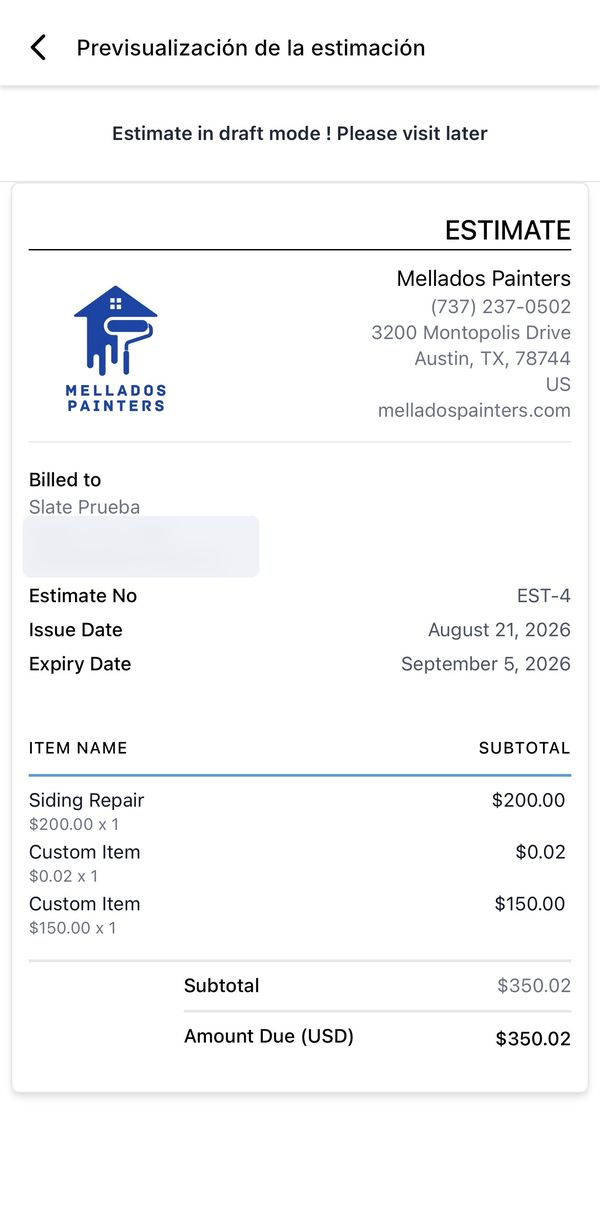
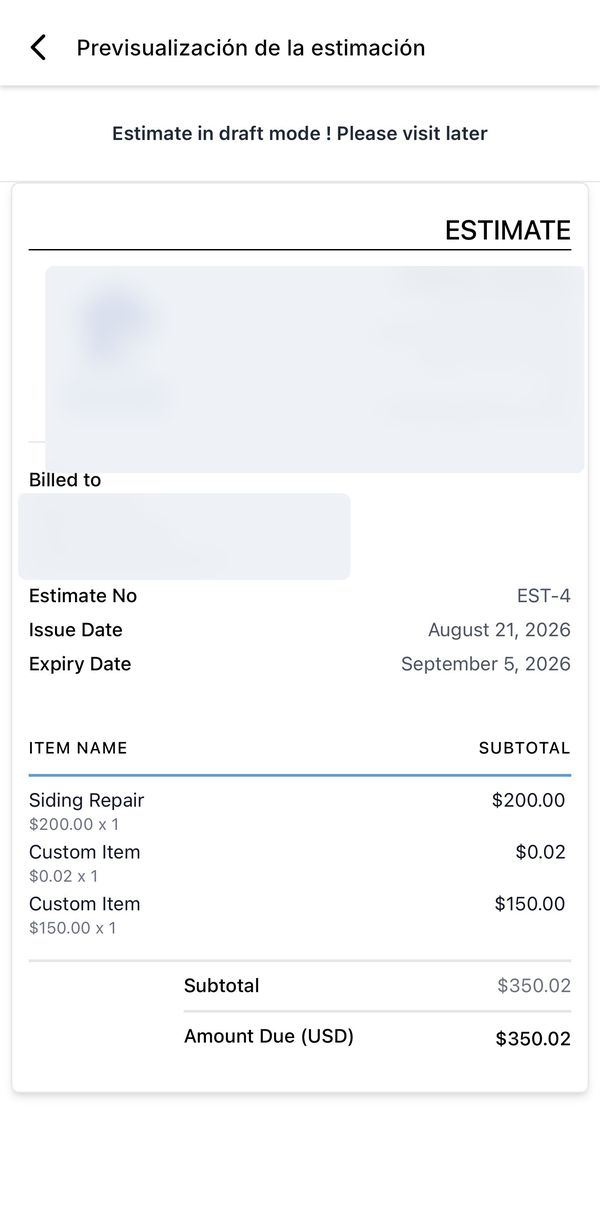
Presupuestos: la página de facturas pasa a presupuestos (solo presupuestos, sin factura, POS no se usa, los dos interruptores apagados), captura del catálogo con productos, bloque del negocio difuminado en la previsualización, menú e inicio y FAQ actualizados, redirección /facturas, bloque corto en 
Claude-Session: https://claude.ai/code/session_014USD9SwovftM7d8EjeFDVE

diff --git a/presupuestos.html b/presupuestos.html
@@ -4,7 +4,7 @@
   <meta charset="UTF-8">
   <meta name="viewport" content="width=device-width, initial-scale=1.0">
   <link rel="icon" type="image/png" href="/favicon.png">
-  <title>Facturas - Slate Systems Ayuda</title>
+  <title>Presupuestos - Slate Systems Ayuda</title>
   <link rel="preconnect" href="https://fonts.googleapis.com">
   <link rel="preconnect" href="https://fonts.gstatic.com" crossorigin>
   <link href="https://fonts.googleapis.com/css2?family=Inter:wght@400;500;600;700&display=swap" rel="stylesheet">
@@ -52,7 +52,7 @@
         <li><a href="google">Google</a></li>
         <li><a href="mis-enlaces">Mis Enlaces</a></li>
         <li><a href="tu-app">Tu App</a></li>
-        <li><a href="facturas" class="active">Facturas</a></li>
+        <li><a href="presupuestos" class="active">Presupuestos</a></li>
         <li><a href="clientes">Clientes</a></li>
         <li><a href="tu-sitio-web">Tu Sitio Web</a></li>
         <li><a href="referidos">Referidos</a></li>
@@ -65,8 +65,8 @@
 
   <section class="page-header">
     <div class="container">
-      <h1>Facturas</h1>
-      <p>Haz un presupuesto desde tu app y mándalo por texto o por correo. Lleva tu logo, tu nombre, tu teléfono y tu dirección. Cuando el cliente acepta, sale la factura. Incluido en tu plan, sin costo extra.</p>
+      <h1>Presupuestos</h1>
+      <p>Haz un presupuesto desde tu app y mándalo por texto o por correo. Lleva tu logo, tu nombre, tu teléfono y tu dirección. El cliente lo abre, lo ve y lo acepta. Incluido en tu plan, sin costo extra.</p>
     </div>
   </section>
 
@@ -79,10 +79,10 @@
         <div class="three-lines">
           <div class="line"><div class="num">1</div><p><strong>Tú haces el presupuesto en tu app.</strong> Unos 2 minutos: eliges al cliente, escribes lo que cobras, lo envías.</p></div>
           <div class="line"><div class="num">2</div><p><strong>El cliente recibe un texto o un correo con un enlace.</strong> Lo abre, lo ve, lo acepta y lo puede descargar. No necesita ninguna app.</p></div>
-          <div class="line"><div class="num">3</div><p><strong>Cuando dice que sí, sale la factura.</strong> Sola, si encendiste el interruptor de facturas. O la mandas tú desde POS. Te paga como siempre: efectivo, cheque, Zelle, transferencia.</p></div>
+          <div class="line"><div class="num">3</div><p><strong>Cuando acepta, te avisa el sistema.</strong> Haces el trabajo y cobras como siempre: efectivo, cheque, Zelle, transferencia.</p></div>
         </div>
         <div class="benefit-box">
-          <p><strong>Bueno saberlo:</strong> esto no cobra con tarjeta. No cambia nada en cómo te pagan. Y no hay impuestos por defecto: el total que escribes es el total. Si algún día necesitas una línea de impuesto, escríbenos.</p>
+          <p><strong>Bueno saberlo:</strong> esto no cobra con tarjeta. No cambia nada en cómo te pagan. Solo hace que tu presupuesto se vea profesional y llegue en segundos.</p>
         </div>
       </div>
 
@@ -94,9 +94,9 @@
           <div class="txt">
             <p>Abre tu app y toca <strong>Aplicaciones</strong> (abajo a la derecha). En el grupo <strong>Ventas &amp; Operaciones</strong> hay tres botones:</p>
             <ul class="icon-list">
-              <li><strong>Estimaciones:</strong> aquí haces y envías tus presupuestos. De aquí salen tus facturas.</li>
+              <li><strong>Estimaciones:</strong> aquí haces y envías tus presupuestos.</li>
               <li><strong>Productos:</strong> tu lista de servicios. Ya te cargamos los principales. Puedes cambiarlos o agregar más.</li>
-              <li><strong>POS:</strong> sirve para mandar una factura directa, sin presupuesto. Las opciones de tarjeta no funcionan (no hay procesador de pagos): ignóralas.</li>
+              <li><strong>POS:</strong> no lo uses (no cobra nada, no hay procesador).</li>
             </ul>
           </div>
         </div>
@@ -168,8 +168,8 @@
             <p class="shot-cap"><strong>Paso 2, pestaña Teclado:</strong> escribe el monto con el teclado. Toca <strong>Añadir información del elemento</strong> para ponerle nombre a esa línea. Con <strong>+</strong> agregas otra línea.</p>
           </div>
           <div>
-            <img src="assets/app/facturas-08-presupuesto-2-catalogo.jpg?v=1" alt="Paso 2 del presupuesto, pestaña Catálogo, con buscar, añadir elemento y crear artículo" class="app-shot">
-            <p class="shot-cap"><strong>Paso 2, pestaña Catálogo:</strong> busca uno de tus productos y tócalo. ¿No existe? <strong>Crear artículo</strong> ahí mismo.</p>
+            <img src="assets/app/facturas-08-presupuesto-2-catalogo.jpg?v=1" alt="Paso 2 del presupuesto, pestaña Catálogo, con la lista de productos para elegir" class="app-shot">
+            <p class="shot-cap"><strong>Paso 2, pestaña Catálogo:</strong> tus productos en lista. Toca los que van en este presupuesto, varios si quieres: el botón los cuenta ("Siguiente (3 elementos)"). Con los iconos de la derecha cambias entre lista y cuadrícula. ¿No existe? <strong>Crear artículo</strong> ahí mismo.</p>
           </div>
         </div>
         <div class="shot-pair">
@@ -179,7 +179,7 @@
           </div>
           <div>
             <img src="assets/app/facturas-11-presupuesto-3-notas.jpg?v=1" alt="Paso 3 del presupuesto: condiciones y notas, y adjuntos" class="app-shot">
-            <p class="shot-cap"><strong>Paso 3:</strong> notas para el cliente (qué incluye, cuándo empiezas). Puedes adjuntar fotos o PDF. Todo opcional. Toca <strong>Revisar</strong>.</p>
+            <p class="shot-cap"><strong>Paso 3:</strong> notas para el cliente (qué incluye, cuándo empiezas). Puedes adjuntar fotos o PDF. Todo opcional. Si el trabajo lleva impuesto, escribe en las notas: "Precios sin impuestos; se agregan al cobrar". Toca <strong>Revisar</strong>.</p>
           </div>
         </div>
         <div class="shot-pair">
@@ -189,7 +189,7 @@
           </div>
           <div>
             <img src="assets/app/facturas-14-presupuesto-4-detalle.jpg?v=1" alt="Paso 4 del presupuesto: subtotal, importe debido y configuración del pago" class="app-shot">
-            <p class="shot-cap">Más abajo está <strong>Configuración del pago</strong>. Deja apagado <strong>Habilitar el pago directo</strong> (no cobras con tarjeta). Enciende <strong>Habilitar el envío de facturas</strong> si quieres que la factura le llegue sola cuando acepte. Si lo dejas apagado, el presupuesto se queda como cotización y la factura la mandas tú (abajo te decimos cómo).</p>
+            <p class="shot-cap">Más abajo está <strong>Configuración del pago</strong>. Deja los dos interruptores apagados: <strong>Habilitar el pago directo</strong> y <strong>Habilitar el envío de facturas</strong>. Tú no cobras con tarjeta.</p>
           </div>
         </div>
         <div class="shot-pair">
@@ -211,26 +211,10 @@
       <div class="content-section" id="acepta">
         <h2>Cuando el cliente acepta</h2>
         <ol class="steps">
-          <li>El cliente abre el enlace, ve el presupuesto y toca <strong>Aceptar</strong>. Puede descargarlo como archivo. En tu lista, el presupuesto cambia a aceptado.</li>
-          <li>Si encendiste <strong>Habilitar el envío de facturas</strong>, la factura le llega sola por el mismo camino. Si no, el presupuesto queda aceptado y la factura la mandas tú (ver abajo).</li>
-          <li>Te paga como siempre: efectivo, cheque, Zelle, transferencia. Nada cambia ahí.</li>
-          <li>Cuando te pague, cuéntanos por texto o márcala como pagada desde la computadora. Así tu lista queda limpia.</li>
+          <li>El cliente abre el enlace, ve el presupuesto y toca <strong>Aceptar</strong>. Puede descargarlo como archivo.</li>
+          <li>Te avisa el sistema, y en tu lista el presupuesto cambia a aceptado.</li>
+          <li>Haces el trabajo y cobras como siempre: efectivo, cheque, Zelle, transferencia. Nada cambia ahí.</li>
         </ol>
-      </div>
-
-      <!-- Factura directa -->
-      <div class="content-section" id="factura-directa">
-        <h2>Factura directa, sin presupuesto</h2>
-        <p>Para un trabajo que ya acordaron de palabra, o para mandar la factura después de un presupuesto aceptado:</p>
-        <ol class="steps">
-          <li>Toca <strong>Aplicaciones</strong> y luego <strong>POS</strong>.</li>
-          <li>Toca <strong>Nuevo pago</strong>.</li>
-          <li>Escribe el monto, o elige tus artículos.</li>
-          <li>Envíala por <strong>texto</strong> o por <strong>correo</strong>. El cliente ve la factura con tu logo y el total. No hay botón de tarjeta.</li>
-        </ol>
-        <div class="ignore-box">
-          <p><strong>Ojo con POS:</strong> las opciones de cobrar con tarjeta no funcionan (no hay procesador de pagos). Ignóralas. Solo usa "Nuevo pago" para mandar la factura.</p>
-        </div>
       </div>
 
       <!-- Consejos -->
@@ -251,11 +235,7 @@
         <div class="faq-list">
           <div class="faq-card open">
             <div class="faq-q-rich">¿Para qué sirve el botón POS?</div>
-            <div class="faq-a-rich"><p>Sí, para una cosa: mandar una factura directa (POS, luego <strong>Nuevo pago</strong>). Lo que no funciona en POS son las opciones de cobrar con tarjeta, porque no hay procesador de pagos. Ignóralas. Tu camino normal sigue siendo <strong>Estimaciones</strong>.</p></div>
-          </div>
-          <div class="faq-card">
-            <div class="faq-q-rich">¿Y los impuestos?</div>
-            <div class="faq-a-rich"><p>Por defecto no hay línea de impuesto: el total que escribes es el total. Si en tu estado o en tu tipo de trabajo necesitas cobrar impuesto, escríbenos y te dejamos la tasa lista para elegirla en cada línea.</p></div>
+            <div class="faq-a-rich"><p>No lo uses. No cobra nada, porque no hay procesador de pagos. Tus dos botones son <strong>Estimaciones</strong> y <strong>Productos</strong>.</p></div>
           </div>
           <div class="faq-card">
             <div class="faq-q-rich">¿Puedo cambiar o borrar un producto?</div>
@@ -271,7 +251,7 @@
           </div>
           <div class="faq-card">
             <div class="faq-q-rich">Lo mandé al cliente equivocado. ¿Y ahora?</div>
-            <div class="faq-a-rich"><p>Escríbenos y lo anulamos contigo. Luego haces uno nuevo para el cliente correcto en un minuto.</p></div>
+            <div class="faq-a-rich"><p>Escríbenos y lo cancelamos contigo. Luego haces uno nuevo para el cliente correcto en un minuto.</p></div>
           </div>
           <div class="faq-card">
             <div class="faq-q-rich">¿Esto cuesta extra?</div>

diff --git a/faq.html b/faq.html
@@ -43,7 +43,7 @@
         <li><a href="google">Google</a></li>
         <li><a href="mis-enlaces">Mis Enlaces</a></li>
         <li><a href="tu-app">Tu App</a></li>
-        <li><a href="facturas">Facturas</a></li>
+        <li><a href="presupuestos">Presupuestos</a></li>
         <li><a href="clientes">Clientes</a></li>
         <li><a href="tu-sitio-web">Tu Sitio Web</a></li>
         <li><a href="referidos">Referidos</a></li>
@@ -162,10 +162,10 @@
       <h2 class="faq-cat">Preguntas Técnicas</h2>
       <div class="faq-list">
         <div class="faq-card">
-          <div class="faq-q-rich">¿Puedo enviar facturas desde mi app?</div>
+          <div class="faq-q-rich">¿Puedo mandar presupuestos desde mi app?</div>
           <div class="faq-a-rich">
-            <p>Sí. En el menú de la app, toca Pagos, luego Facturas, luego Nueva factura. Elige al cliente, elige el servicio, escribe el precio y envíala por texto o por correo. El cliente abre un enlace y la puede descargar. No cobra con tarjeta: te pagan como siempre, y luego la marcas como pagada.</p>
-            <p><a href="facturas">Ver la guía paso a paso &rarr;</a></p>
+            <p>Sí. Toca Aplicaciones, luego Estimaciones, luego el botón +. Eliges al cliente, agregas lo que cobras y lo envías por texto o por correo. El cliente abre un enlace, lo ve y lo acepta. Lleva tu logo. No cobra con tarjeta.</p>
+            <p><a href="presupuestos">Ver la guía paso a paso &rarr;</a></p>
           </div>
         </div>
         <div class="faq-card">

diff --git a/tu-app.html b/tu-app.html
@@ -34,7 +34,7 @@
         <li><a href="google">Google</a></li>
         <li><a href="mis-enlaces">Mis Enlaces</a></li>
         <li><a href="tu-app" class="active">Tu App</a></li>
-        <li><a href="facturas">Facturas</a></li>
+        <li><a href="presupuestos">Presupuestos</a></li>
         <li><a href="clientes">Clientes</a></li>
         <li><a href="tu-sitio-web">Tu Sitio Web</a></li>
         <li><a href="referidos">Referidos</a></li>
@@ -127,6 +127,11 @@
       </div>
 
       <!-- Idioma -->
+      <div class="content-section" id="presupuestos">
+        <h2>Presupuestos: tu app también manda presupuestos con tu logo</h2>
+        <p>Toca <strong>Aplicaciones</strong> y luego <strong>Estimaciones</strong>: eliges al cliente, escribes lo que cobras y lo envías por texto o por correo. <a href="presupuestos">Ver la guía paso a paso &rarr;</a></p>
+      </div>
+
       <div class="content-section" id="idioma">
         <h2>Cambia tu idioma</h2>
         <p>¿Quieres la app en español o inglés? Toca el <strong>engrane</strong> (arriba a la derecha), luego <strong>Idioma</strong> (si tu app todavía está en inglés, ese renglón dice <strong>Language</strong>), y elige el que quieras.</p>

diff --git a/index.html b/index.html
@@ -30,7 +30,7 @@
         <li><a href="google">Google</a></li>
         <li><a href="mis-enlaces">Mis Enlaces</a></li>
         <li><a href="tu-app">Tu App</a></li>
-        <li><a href="facturas">Facturas</a></li>
+        <li><a href="presupuestos">Presupuestos</a></li>
         <li><a href="clientes">Clientes</a></li>
         <li><a href="tu-sitio-web">Tu Sitio Web</a></li>
         <li><a href="referidos">Referidos</a></li>
@@ -89,12 +89,12 @@
           <a href="tu-app" class="card-link">Ver la guía →</a>
         </div>
 
-        <!-- Facturas -->
+        <!-- Presupuestos -->
         <div class="card">
           <div class="card-icon">🧾</div>
-          <h3>Facturas</h3>
-          <p>Envía una factura profesional por texto o correo en 2 minutos. Con tu nombre, tu logo y tu número. Incluida.</p>
-          <a href="facturas" class="card-link">Ver cómo →</a>
+          <h3>Presupuestos</h3>
+          <p>Manda un presupuesto profesional por texto o correo en 2 minutos. Con tu nombre, tu logo y tu número. Incluido.</p>
+          <a href="presupuestos" class="card-link">Ver cómo →</a>
         </div>
 
         <!-- Manejo de Clientes -->

diff --git a/referidos.html b/referidos.html
@@ -147,7 +147,7 @@
         <li><a href="google">Google</a></li>
         <li><a href="mis-enlaces">Mis Enlaces</a></li>
         <li><a href="tu-app">Tu App</a></li>
-        <li><a href="facturas">Facturas</a></li>
+        <li><a href="presupuestos">Presupuestos</a></li>
         <li><a href="clientes">Clientes</a></li>
         <li><a href="tu-sitio-web">Tu Sitio Web</a></li>
         <li><a href="referidos" class="active">Referidos</a></li>

diff --git a/clientes.html b/clientes.html
@@ -30,7 +30,7 @@
         <li><a href="google">Google</a></li>
         <li><a href="mis-enlaces">Mis Enlaces</a></li>
         <li><a href="tu-app">Tu App</a></li>
-        <li><a href="facturas">Facturas</a></li>
+        <li><a href="presupuestos">Presupuestos</a></li>
         <li><a href="clientes" class="active">Clientes</a></li>
         <li><a href="tu-sitio-web">Tu Sitio Web</a></li>
         <li><a href="referidos">Referidos</a></li>

diff --git a/google.html b/google.html
@@ -40,7 +40,7 @@
         <li><a href="google" class="active">Google</a></li>
         <li><a href="mis-enlaces">Mis Enlaces</a></li>
         <li><a href="tu-app">Tu App</a></li>
-        <li><a href="facturas">Facturas</a></li>
+        <li><a href="presupuestos">Presupuestos</a></li>
         <li><a href="clientes">Clientes</a></li>
         <li><a href="tu-sitio-web">Tu Sitio Web</a></li>
         <li><a href="referidos">Referidos</a></li>

diff --git a/mis-enlaces.html b/mis-enlaces.html
@@ -27,7 +27,7 @@
         <li><a href="google">Google</a></li>
         <li><a href="mis-enlaces" class="active">Mis Enlaces</a></li>
         <li><a href="tu-app">Tu App</a></li>
-        <li><a href="facturas">Facturas</a></li>
+        <li><a href="presupuestos">Presupuestos</a></li>
         <li><a href="clientes">Clientes</a></li>
         <li><a href="tu-sitio-web">Tu Sitio Web</a></li>
         <li><a href="referidos">Referidos</a></li>

diff --git a/tu-sitio-web.html b/tu-sitio-web.html
@@ -30,7 +30,7 @@
         <li><a href="google">Google</a></li>
         <li><a href="mis-enlaces">Mis Enlaces</a></li>
         <li><a href="tu-app">Tu App</a></li>
-        <li><a href="facturas">Facturas</a></li>
+        <li><a href="presupuestos">Presupuestos</a></li>
         <li><a href="clientes">Clientes</a></li>
         <li><a href="tu-sitio-web" class="active">Tu Sitio Web</a></li>
         <li><a href="referidos">Referidos</a></li>

diff --git a/cancelar.html b/cancelar.html
@@ -31,7 +31,7 @@
         <li><a href="google">Google</a></li>
         <li><a href="mis-enlaces">Mis Enlaces</a></li>
         <li><a href="tu-app">Tu App</a></li>
-        <li><a href="facturas">Facturas</a></li>
+        <li><a href="presupuestos">Presupuestos</a></li>
         <li><a href="clientes">Clientes</a></li>
         <li><a href="tu-sitio-web">Tu Sitio Web</a></li>
         <li><a href="referidos">Referidos</a></li>

diff --git a/contacto.html b/contacto.html
@@ -27,7 +27,7 @@
         <li><a href="google">Google</a></li>
         <li><a href="mis-enlaces">Mis Enlaces</a></li>
         <li><a href="tu-app">Tu App</a></li>
-        <li><a href="facturas">Facturas</a></li>
+        <li><a href="presupuestos">Presupuestos</a></li>
         <li><a href="clientes">Clientes</a></li>
         <li><a href="tu-sitio-web">Tu Sitio Web</a></li>
         <li><a href="referidos">Referidos</a></li>

diff --git a/crecer.html b/crecer.html
@@ -27,7 +27,7 @@
         <li><a href="google">Google</a></li>
         <li><a href="mis-enlaces">Mis Enlaces</a></li>
         <li><a href="tu-app">Tu App</a></li>
-        <li><a href="facturas">Facturas</a></li>
+        <li><a href="presupuestos">Presupuestos</a></li>
         <li><a href="clientes">Clientes</a></li>
         <li><a href="tu-sitio-web">Tu Sitio Web</a></li>
         <li><a href="referidos">Referidos</a></li>
